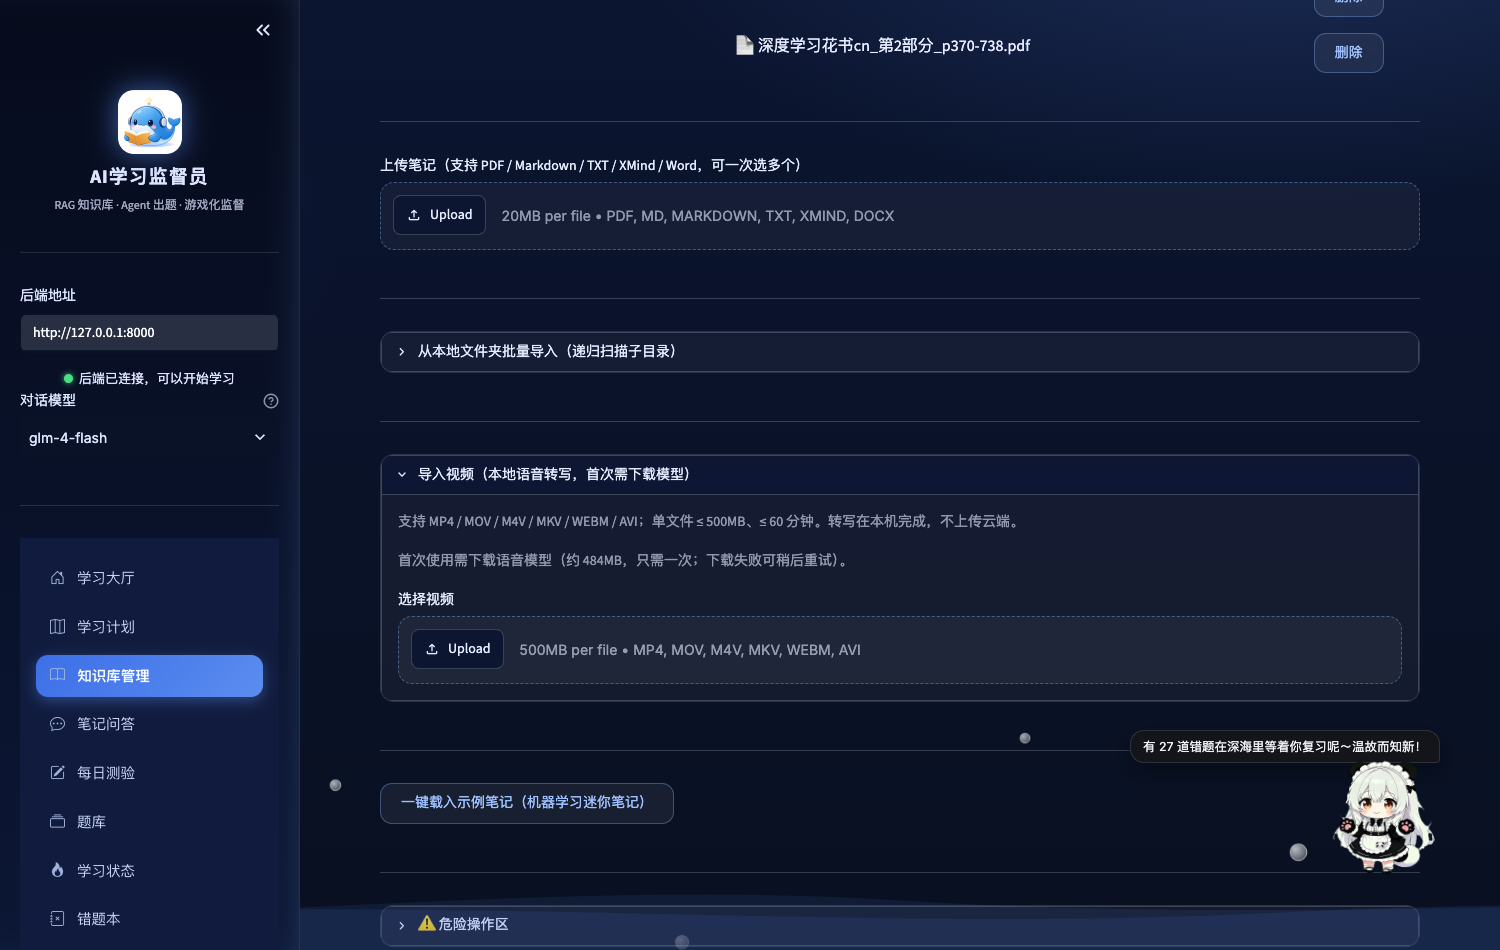
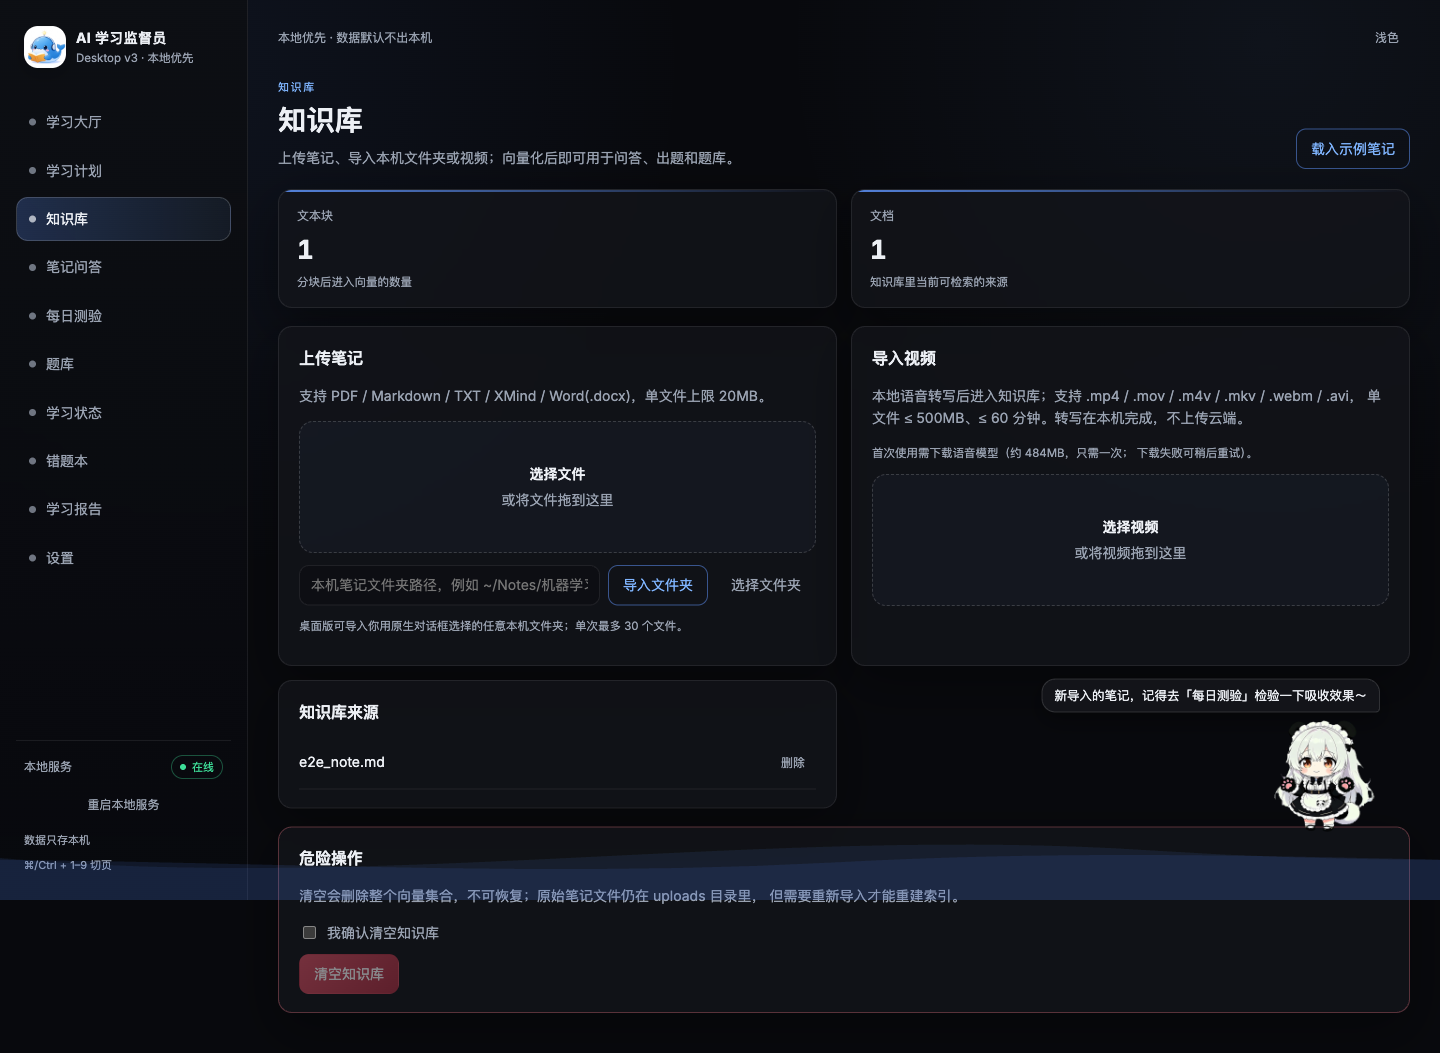
docs: 3.4.1 展示截图换为桌面 App 端（有头真实渲染：知识库视频入口/测验/问答依据）

diff --git a/README.md b/README.md
@@ -63,8 +63,8 @@
 <td width="50%"><img src="screenshots/quiz.png" alt="每日测验"></td>
 </tr>
 <tr>
-<td align="center"><sub>网页版：视频导入入口默认可见、首次下载说明常驻（3.4.1）；桌面 App 同功能</sub></td>
-<td align="center"><sub>网页版：每日测验（Agent 出题→作答→批改）；3.4.1 弱模型出题提速</sub></td>
+<td align="center"><sub>桌面 App：视频导入入口与上传笔记并列、默认可见、首次下载说明常驻（3.4.1）</sub></td>
+<td align="center"><sub>桌面 App：每日测验（Agent 出题→作答→批改）；3.4.1 弱模型出题提速</sub></td>
 </tr>
 </table>
 
